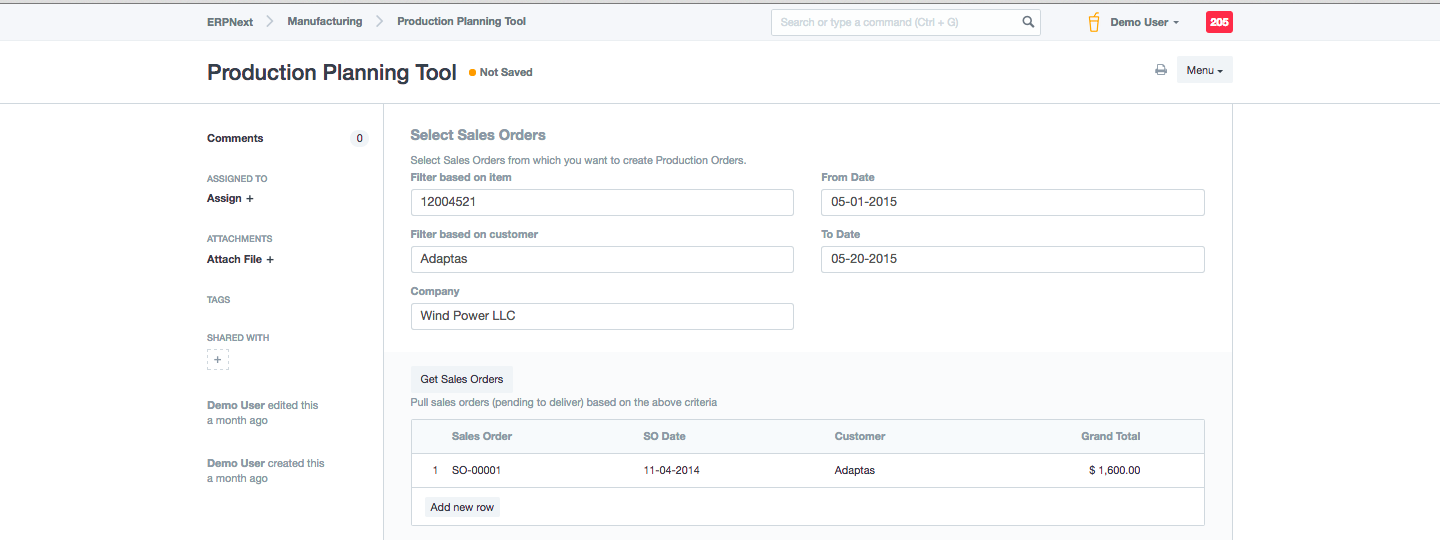
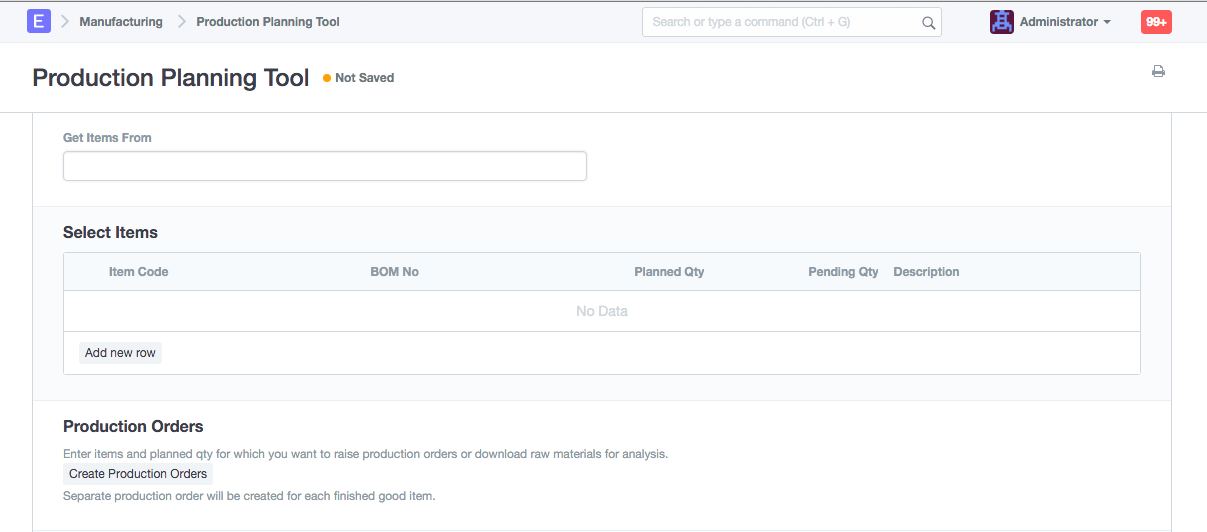
Fixed Documentation

diff --git a/erpnext/manufacturing/doctype/production_planning_tool/production_planning_tool.py b/erpnext/manufacturing/doctype/production_planning_tool/production_planning_tool.py
@@ -115,9 +115,9 @@ class ProductionPlanningTool(Document):
 				mr.material_request_date = cstr(r['transaction_date'])
 
 	def get_items(self):
-		if self.plan_using == "Sales Order":
+		if self.get_items_from == "Sales Order":
 			self.get_so_items()
-		elif self.plan_using == "Material Request":
+		elif self.get_items_from == "Material Request":
 			self.get_mr_items()
 		
 	def get_so_items(self):
@@ -191,9 +191,9 @@ class ProductionPlanningTool(Document):
 			pi.planned_qty				= flt(p['pending_qty'])
 			pi.pending_qty				= flt(p['pending_qty'])
 			
-			if self.plan_using == "Sales Order":
+			if self.get_items_from == "Sales Order":
 				pi.sales_order		= p['parent']
-			elif self.plan_using == "Material Request":
+			elif self.get_items_from == "Material Request":
 				pi.material_request		= p['parent']
 				pi.material_request_item = p['name']
 			
@@ -252,18 +252,18 @@ class ProductionPlanningTool(Document):
 			}
 			
 			""" Club similar BOM and item for processing in case of Sales Orders """
-			if self.plan_using == "Sales Order":
+			if self.get_items_from == "Material Request":
+				item_details.update({
+					"qty": d.planned_qty
+				})
+				item_dict[(d.item_code, d.material_request_item, d.warehouse)] = item_details
+			
+			else:
 				item_details.update({
 					"qty":flt(item_dict.get((d.item_code, d.sales_order, d.warehouse),{})
 						.get("qty")) + flt(d.planned_qty)
 				})
 				item_dict[(d.item_code, d.sales_order, d.warehouse)] = item_details
-			
-			elif self.plan_using == "Material Request":
-				item_details.update({
-					"qty": d.planned_qty
-				})
-				item_dict[(d.item_code, d.material_request_item, d.warehouse)] = item_details
 
 		return item_dict
 
@@ -293,11 +293,12 @@ class ProductionPlanningTool(Document):
 		"""
 		bom_dict = {}
 		for d in self.get("items"):
-			if self.plan_using == "Sales Order":
-				bom_dict.setdefault(d.bom_no, []).append({d.sales_order: flt(d.planned_qty)})
-			elif self.plan_using == "Material Request":
-				bom_dict.setdefault(d.bom_no, []).append({d.material_request_item: flt(d.planned_qty)})
-	
+			if self.get_items_from == "Material Request":
+				bom_dict.setdefault(d.bom_no, []).append([d.material_request_item, flt(d.planned_qty)])
+			else:
+				bom_dict.setdefault(d.bom_no, []).append([d.sales_order, flt(d.planned_qty)])
+		return bom_dict
+		
 	def download_raw_materials(self):
 		""" Create csv data for required raw material to produce finished goods"""
 		self.validate_data()
@@ -341,7 +342,6 @@ class ProductionPlanningTool(Document):
 					and item.is_stock_item = 1
 					group by item_code""", bom, as_dict=1):
 						bom_wise_item_details.setdefault(d.item_code, d)
-
 			for item, item_details in bom_wise_item_details.items():
 				for so_qty in so_wise_qty:
 					item_list.append([item, flt(item_details.qty) * so_qty[1], item_details.description,
@@ -405,7 +405,7 @@ class ProductionPlanningTool(Document):
 			for item_details in so_item_qty:
 				if requested_qty:
 					sales_order = item_details[4] or "No Sales Order"
-					if self.plan_using == "Material Request":
+					if self.get_items_from == "Material Request":
 						sales_order = "No Sales Order"
 					if requested_qty <= item_details[0]:
 						adjusted_qty = requested_qty

diff --git a/erpnext/manufacturing/doctype/production_order/production_order.py b/erpnext/manufacturing/doctype/production_order/production_order.py
@@ -314,7 +314,8 @@ class ProductionOrder(Document):
 
 	def set_actual_dates(self):
 		if self.get("operations"):
-			actual_date = frappe.db.sql("""select min(actual_start_time) as start_date, max(actual_end_time) as end_date from `tabProduction Order Operation`
+			actual_date = frappe.db.sql("""select min(actual_start_time) as start_date,
+				max(actual_end_time) as end_date from `tabProduction Order Operation`
 				where parent = %s and docstatus=1""", self.name, as_dict=1)[0]
 			self.actual_start_date = actual_date.start_date
 			self.actual_end_date = actual_date.end_date

diff --git a/erpnext/docs/user/manual/en/manufacturing/tools/production-planning-tool.md b/erpnext/docs/user/manual/en/manufacturing/tools/production-planning-tool.md
@@ -1,7 +1,7 @@
 Production Planning Tool helps you plan production and purchase of Items for a
 period (usually a week or a month).
 
-This list of Items can be generated from the open Sales Orders in the system
+This list of Items can be generated from the open Sales Orders or pending Material Requests that can be Manufactured in the system
 and will generate:
 
   * Production Orders for each Item.
@@ -13,30 +13,36 @@ To use the Production Planning Tool, go to:
 
 <img class="screenshot" alt="Production Planing Tool" src="{{docs_base_url}}/assets/img/manufacturing/ppt.png">
 
+#### Step 1: Specify source to get Production Items
+
+* You can select Sales Order or Material Request according to where you want to source the items from
+* If you plan to add items manually, keep the "Get items from" field empty
 
 
-#### Step 1: Select and get Sales Order
 
-* Select sales orders for MRP using filters (Time, Item, and Customer)
-* Click on Get Sales Order to generate a list.
+#### Step 2: Select and get Sales Order / Material Request
+
+* Use filters to get the Sales Order / Material Request
+* Click on Get Sales Order / Get Material Requests to generate a list.
 
 <img class="screenshot" alt="Production Planing Tool" src="{{docs_base_url}}/assets/img/manufacturing/ppt-get-sales-orders.png">
 
 
 
-#### Step 2: Get Item from Sales Orders.
+#### Step 3: Get Items
 
-You can add/remove or change quantity of these Items.
+* Get the items for the Sales Order / Material request list
+* You can add/remove or change quantity of these Items.
 
 <img class="screenshot" alt="Production Planing Tool" src="{{docs_base_url}}/assets/img/manufacturing/ppt-get-item.png">
 
-#### Step 3: Create Production Orders
+#### Step 4: Create Production Orders
 
 <img class="screenshot" alt="Production Planing Tool" src="{{docs_base_url}}/assets/img/manufacturing/ppt-create-production-order.png">
 
 
 
-#### Step 4: Create Material Request
+#### Step 5: Create Material Request
 
 Create Material Request for Items with projected shortfall.
 
@@ -46,11 +52,11 @@ Create Material Request for Items with projected shortfall.
 
 The Production Planning Tool is used in two stages:
 
-  * Selection of Open Sales Orders for the period based on “Expected Delivery Date”.
-  * Selection of Items from those Sales Orders.
+  * Selection of open Sales Orders / pending Material Request for the period based on “Expected Delivery Date”.
+  * Selection of Items from those Sales Orders / Material Requests
 
-The tool will update if you have already created Production Orders for a
-particular Item against its Sales Order (“Planned Quantity”).
+The tool will update if you have already created Production Orde rs for a
+particular Item against its Sales Order (“Planned Quantity”) or Material Request.
 
 You can always edit the Item list and increase / reduce quantities to plan
 your production.

diff --git a/erpnext/docs/user/manual/en/stock/material-request.md b/erpnext/docs/user/manual/en/stock/material-request.md
@@ -23,6 +23,7 @@ A Material Request can be of type:
 * Purchase - If the request material is to be purchased.
 * Material Transfer - If the requested material is to be shifted from one warehouse to another.
 * Material Issue - If the requested material is to be Issued.
+* Manufacture - If the requested material is to be Produced.
 
 > Info: Material Request is not mandatory. It is ideal if you have centralized
 buying so that you can collect this information from various departments.
